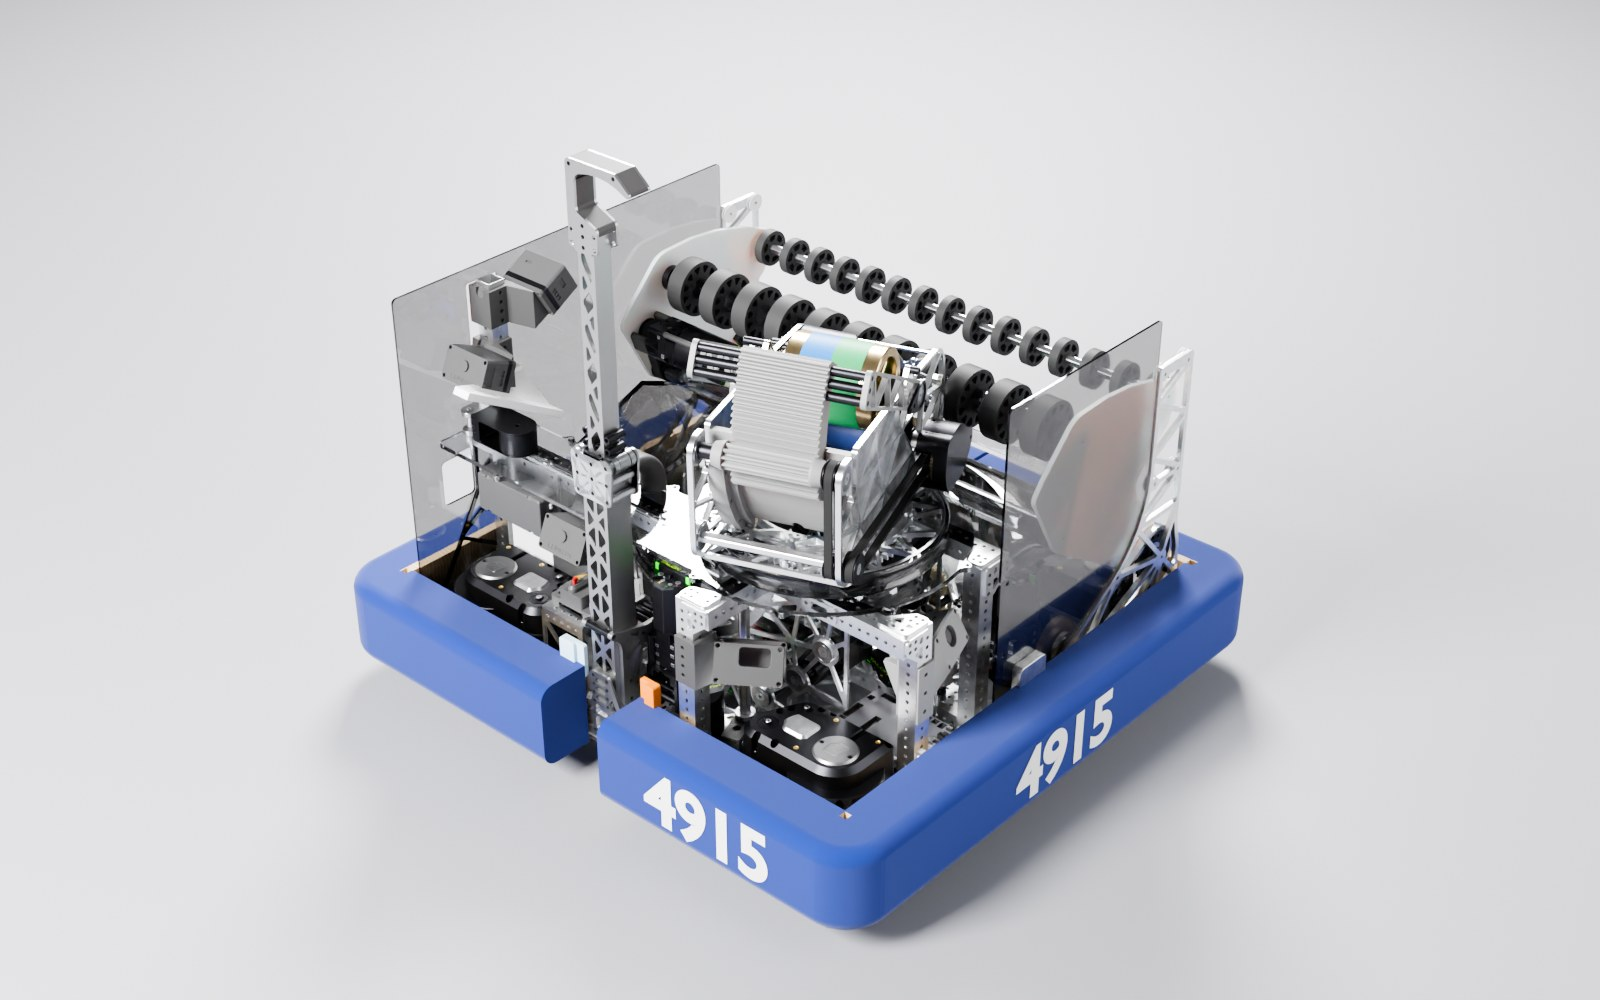
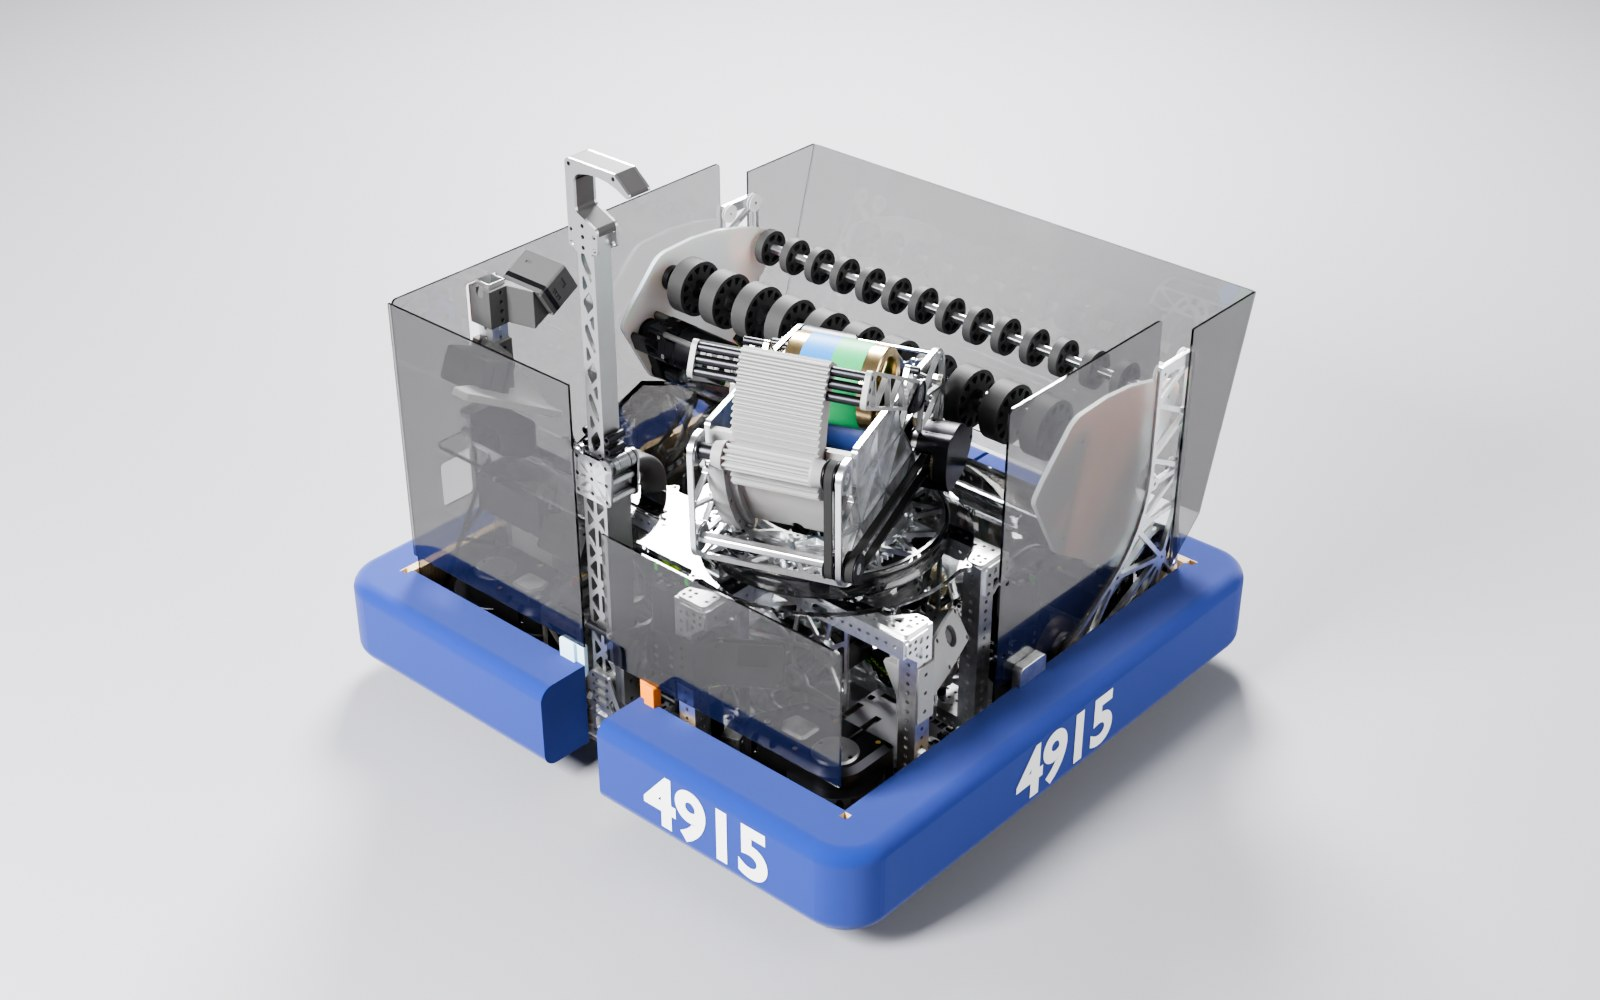
Add best-effort panels missing from the May CAD export
approx_panels.py adds, as 1/8" smoked polycarbonate:
- the intake hopper extension (front wall + two side walls; Parts 34, 32,
  35 in the newer Onshape version), sized from the BOM masses and placed
  from the reveal video and team photo. It is rigged as a sliding
  extension on J_hopper_ext, driven by intake_pivot_deg, with the side
  walls telescoping via a Hook modifier, since swinging the walls with the
  intake arm would pass them through the drivebase and turret.
- back walls (left full height, right below the turret) seen at 0:14.

All approximate parts are in their own collection and can be skipped
with --no-approx. A collision check in stowed, mid and deployed poses
finds no overlaps beyond the front wall meeting the intake side plates.

Claude-Session: https://claude.ai/code/session_014vvMYRo6V5vU6NEvAgyppW

diff --git a/approx_panels.py b/approx_panels.py
@@ -1,0 +1,145 @@
+"""
+approx_panels.py - parts of the real robot that are missing from the May 2026
+CAD export, approximated as flat 1/8" smoked-polycarbonate panels.
+
+Sources (best effort, no CAD geometry available):
+  * Intake hopper extension. On the robot, the deployed intake forms a tall box
+    with a front wall and two side walls. They are Parts 34 (front) and 32/35
+    (sides) of "32 - 2026 Intake V2" in the newer Onshape version. Their sizes
+    come from the BOM masses (1.78 lb and 0.955 lb of polycarbonate at 1/8"
+    gives 0.21 m^2 and 0.11 m^2). Their placement and shape come from the
+    reveal video (0:24, 0:31, 0:44, 0:45) and the team photo.
+    How they retract is not visible anywhere. Swinging them rigidly with the
+    intake arm would put them through the drivebase and the turret, so they
+    are modelled as a sliding extension: the front wall stays upright and
+    slides 24 cm forward as the intake deploys (joint J_hopper_ext, driven
+    by intake_pivot_deg), and the side walls telescope with it (a Hook
+    modifier moves their front edge).
+  * Back walls. Seen in the reveal video at ~0:14: the left half is full height,
+    the right half stops below the turret so the shooter can swing over it,
+    and the climber tube sits in the gap between them.
+
+All panels go in the "Approximate (not in CAD)" collection and carry an
+"approximate" custom property, so they are easy to hide or replace once a
+newer CAD export is available.
+"""
+
+import bmesh
+import bpy
+from mathutils import Matrix, Vector
+
+THICKNESS = 0.003175           # 1/8" polycarbonate
+
+# Hopper extension, robot frame, intake DEPLOYED. Side walls sit just outside
+# the main hopper walls and the front truss towers (|y| <= 0.362).
+EXT_SIDE_Y = 0.3645
+EXT_SIDE_XZ = [(0.30, 0.16), (0.60, 0.215), (0.68, 0.50), (0.30, 0.50)]  # rear-bottom first
+EXT_SIDE_FRONT = (1, 2)        # indices of the outline points on the sliding front edge
+EXT_FRONT_BOTTOM_XZ = (0.60, 0.215)   # just above the front roller
+EXT_FRONT_TOP_XZ = (0.68, 0.50)
+EXT_TRAVEL = 0.24              # front wall slides this far between STOW and deployed
+# Slide fraction vs intake angle: 0 at STOW (130 deg), 1 from 30 deg down to
+# READY (0 deg), so the wall stays ahead of the swinging rollers.
+EXT_FULL_AT_DEG = 30.0
+STOW_DEG = 130.0
+
+# Back walls, robot frame: (y0, y1, z0, z1) on the plane x = BACK_X.
+BACK_X = -0.337                # just behind the frame, inside the bumper
+BACK_LEFT = (0.045, 0.358, 0.178, 0.533)
+BACK_RIGHT = (-0.358, 0.004, 0.178, 0.355)
+
+
+def _slab(name, outline, normal, thickness=THICKNESS):
+    """Closed prism from a planar outline, centred on the outline's plane.
+    Vertex i (top face) and i + len(outline) (bottom face) come from outline[i]."""
+    me = bpy.data.meshes.new(name)
+    bm = bmesh.new()
+    h = Vector(normal).normalized() * (thickness / 2)
+    top = [bm.verts.new(Vector(p) + h) for p in outline]
+    bot = [bm.verts.new(Vector(p) - h) for p in outline]
+    bm.faces.new(top)
+    bm.faces.new(list(reversed(bot)))
+    n = len(outline)
+    for i in range(n):
+        j = (i + 1) % n
+        bm.faces.new([top[i], top[j], bot[j], bot[i]])
+    bmesh.ops.recalc_face_normals(bm, faces=bm.faces)
+    bm.to_mesh(me)
+    bm.free()
+    return me
+
+
+def add(rig, material):
+    """Create the panels and attach them to the rig.
+
+    rig: namespace with root, rig_col, robot_col, rest (dict of joint rest
+    positions), make_empty, add_driver, parent_keep, recenter.
+    Returns (objects, joint_spec).
+    """
+    col = bpy.data.collections.get("Approximate (not in CAD)") or \
+        bpy.data.collections.new("Approximate (not in CAD)")
+    if col.name not in rig.robot_col.children:
+        rig.robot_col.children.link(col)
+
+    def make(name, outline, normal, path, parent):
+        me = _slab(name, outline, normal)
+        me.materials.append(material)
+        o = bpy.data.objects.new(name, me)
+        col.objects.link(o)
+        o["onshape_name"] = name
+        o["onshape_path"] = path
+        o["source"] = "approx_panels.py"
+        o["approximate"] = True
+        rig.recenter(o)
+        bpy.context.view_layer.update()
+        rig.parent_keep(o, parent)
+        return o
+
+    made = []
+    # sliding joint for the hopper extension (rest = STOW, i.e. retracted)
+    (xb, zb), (xt, zt) = EXT_FRONT_BOTTOM_XZ, EXT_FRONT_TOP_XZ
+    rest_pt = Vector((xb - EXT_TRAVEL, 0.0, zb))
+    j = rig.make_empty("J_hopper_ext", rest_pt, rig.root, rig.rig_col, size=0.06,
+                       display="SINGLE_ARROW")
+    j.lock_location = (False, True, True)
+    j.lock_rotation = (True, True, True)
+    span = STOW_DEG - EXT_FULL_AT_DEG
+    rig.add_driver(j, "location", 0, rig.root, "intake_pivot_deg",
+                   f"{rest_pt.x:.6f}+{EXT_TRAVEL}*clamp(({STOW_DEG}-v)/{span},0,1)")
+    j["approximate"] = True
+    shift = Matrix.Translation((-EXT_TRAVEL, 0, 0))   # deployed -> retracted
+
+    # front wall rides on the joint; it sits between the side walls
+    y = EXT_SIDE_Y - THICKNESS
+    front = [shift @ Vector(p) for p in ((xb, -y, zb), (xb, y, zb), (xt, y, zt), (xt, -y, zt))]
+    nrm = Vector((zt - zb, 0, -(xt - xb))).normalized()
+    made.append(make("Intake Hopper Front Wall (approx.)", front, nrm,
+                     "32 - 2026 Intake V2", j))
+
+    # side walls: rear edge fixed to the robot, front edge hooked to the joint
+    for side, sy in (("Left", EXT_SIDE_Y), ("Right", -EXT_SIDE_Y)):
+        pts = []
+        for i, (x, z) in enumerate(EXT_SIDE_XZ):
+            p = Vector((x, sy, z))
+            pts.append(shift @ p if i in EXT_SIDE_FRONT else p)
+        o = make(f"Intake Hopper Side Wall {side} (approx.)", pts, (0, 1, 0),
+                 "32 - 2026 Intake V2", rig.root)
+        n = len(EXT_SIDE_XZ)
+        idx = [i for i in EXT_SIDE_FRONT] + [i + n for i in EXT_SIDE_FRONT]
+        hook = o.modifiers.new("HopperSlide", "HOOK")
+        hook.object = j
+        hook.vertex_indices_set(idx)
+        # zero effect at rest: parentinv = hook_rest^-1 * object
+        hook.matrix_inverse = Matrix.Translation(rig.rest[j.name]).inverted() @ o.matrix_basis
+        made.append(o)
+
+    for side, (y0, y1, z0, z1) in (("Left", BACK_LEFT), ("Right", BACK_RIGHT)):
+        made.append(make(f"Back Wall {side} (approx.)",
+                         [(BACK_X, y0, z0), (BACK_X, y1, z0), (BACK_X, y1, z1), (BACK_X, y0, z1)],
+                         (1, 0, 0), "", rig.root))
+
+    spec = dict(name="hopper_ext", type="prismatic", parent=rig.root.name,
+                origin=list(rest_pt), axis="X", control="intake_pivot_deg",
+                travel=[0.0, EXT_TRAVEL], approximate=True,
+                note=f"x = rest + {EXT_TRAVEL} * clamp(({STOW_DEG} - v) / {span}, 0, 1)")
+    return made, spec

diff --git a/build_artemis.py b/build_artemis.py
@@ -41,6 +41,7 @@ from mathutils import Matrix, Vector
 
 HERE = os.path.dirname(os.path.abspath(__file__))
 sys.path.insert(0, HERE)
+import approx_panels  # noqa: E402  (sibling module)
 import materials  # noqa: E402  (sibling module)
 
 # --------------------------------------------------------------------------
@@ -808,6 +809,8 @@ def parse_args():
     ap.add_argument("--no-studio", action="store_true", help="skip floor, lights, cameras")
     ap.add_argument("--no-demo", action="store_true", help="skip the demo animation")
     ap.add_argument("--report", default=None, help="write a JSON joint/part summary here")
+    ap.add_argument("--no-approx", action="store_true",
+                    help="skip the approximate panels that are missing from the CAD (approx_panels.py)")
     ap.add_argument("--team-number", default="4915",
                     help="bumper numbers to add on all four bumpers ('' for none)")
     return ap.parse_args(argv)
@@ -862,6 +865,16 @@ def main():
     materials.assign_all(parts, root)
     if args.team_number:
         add_bumper_numbers(parts, root, args.team_number)
+    if not args.no_approx and "intake_arm" in joints:
+        from types import SimpleNamespace
+        rig = SimpleNamespace(root=root, rig_col=rig_col, robot_col=robot_col, rest=REST,
+                              make_empty=make_empty, add_driver=add_driver,
+                              parent_keep=parent_keep, recenter=recenter_origin)
+        made, spec = approx_panels.add(rig, materials.make("polycarb_smoked"))
+        specs.append(spec)
+        root.update_tag()
+        bpy.context.view_layer.update()
+        log(f"added {len(made)} approximate panels (intake hopper extension, back walls)")
 
     if not args.no_studio:
         build_studio(link_collection("Studio", scene.collection))

diff --git a/README.md b/README.md
@@ -11,6 +11,7 @@ Every mechanism moves from one set of sliders, in the same units the robot code 
 | `ARTEMIS.blend` | The scene (~44 MB, Git LFS). Open with **Blender 5.2 LTS** or newer. |
 | `build_artemis.py` | Rebuilds `ARTEMIS.blend` from `source/`: import, cleanup, rig, materials, studio, demo animation. |
 | `materials.py` | Procedural material library and the rules that map each part to a material. |
+| `approx_panels.py` | Best-effort panels that the real robot has but the May CAD export lacks: the intake hopper extension and the back walls. See [Approximate parts](#approximate-parts-not-in-the-cad). |
 | `fetch_bom_materials.py` | Downloads each part's Onshape material and appearance from the public share into `source/onshape_bom_materials.json`. No API key is needed. |
 | `render_previews.py` | Renders a still of any pose or animation frame from the command line. |
 | `artemis_joints.json` | Every joint's parent, origin, axis and control property, for simulation or other tools. |
@@ -36,7 +37,7 @@ git lfs pull
 
 | Property | Units / range | Meaning |
 | --- | --- | --- |
-| `intake_pivot_deg` | −2 … 132 ° | Matches `PivotSubsystem`. **130 = STOW** (CAD pose, the default), 60 = SAFE, 0 = READY (deployed). |
+| `intake_pivot_deg` | −2 … 132 ° | Matches `PivotSubsystem`. **130 = STOW** (CAD pose, the default), 60 = SAFE, 0 = READY (deployed). Also slides the approximate hopper extension. |
 | `turret_deg` | −170 … 225 ° | Matches `TurretSubsystem`. Counter-clockwise (CCW) from robot-forward. |
 | `hood_deg` | 0 … 40 ° | Matches `HoodSubsystem`. 0 = down. The hood pivots on the flywheel shaft. |
 | `climber_m` | 0 … 0.28 m | Climber extension. The 0.28 m travel is an estimate; see the notes below. |
@@ -107,6 +108,7 @@ Options:
 | `--no-rollers` | Don't rig spinning rollers. |
 | `--no-studio` | Skip the floor, lights and cameras. |
 | `--no-demo` | Skip the demo animation. |
+| `--no-approx` | Skip the approximate panels in `approx_panels.py`. |
 
 **Re-exporting from Onshape.** The script expects the same layout as the AdvantageScope export:
 
@@ -149,12 +151,26 @@ If the layout changes, edit `COMPONENT_FILES` at the top of `build_artemis.py`.
 ### Known limitations
 
 * **Climber travel.** The 0.28 m travel is estimated from the tube lengths, because the climber code has been removed.
-* **Intake hopper walls.** On the robot, the deployed intake forms a tall box: smoked polycarbonate side walls plus a front wall. The newer Onshape version has them as Parts 32, 34 and 35 of `32 - 2026 Intake V2`. They are **not** in the May export, so the model only shows the intake's low side plates.
+* **Hopper extension and back walls are approximate.** They aren't in the May export, so they were modelled from photos and video; see [Approximate parts](#approximate-parts-not-in-the-cad). The way the hopper extension retracts is a guess.
 * **Not in the CAD at all.** The sponsor and ARTEMIS decals, wiring and cable sleeves.
 * **Guessed materials.** Team-made parts with no material set in Onshape are guessed from their CAD colour. For example, white CAD parts became white HDPE or white prints.
 * **Mechanism motion.** All roller ratios are 1. Belts and chains don't animate.
 * **Triangle count.** The scene has 2.5 M triangles, which is fine for stills and animation. For real-time use or physics, decimate the meshes or build simple collision shapes.
 * **Newer CAD versions.** The model is the May 2026 export. The newer public Onshape share (version `d5fdcfd9…`) adds at least the intake hopper walls. To use it, export the same five files and rebuild.
+
+## Approximate parts (not in the CAD)
+
+The real robot has panels that the May 2026 CAD export doesn't. Without CAD geometry or a newer export, `approx_panels.py` adds them as flat 1/8" smoked-polycarbonate panels. They are sized from the Onshape parts list and placed from the reveal video and the team photo. They live in the `ARTEMIS › Approximate (not in CAD)` collection, so you can hide them or skip them with `--no-approx`.
+
+* **Intake hopper extension:** a front wall and two side walls. These are Parts 34, 32 and 35 in the newer Onshape version. The parts list gives their weights: 1.78 lb for the front wall and 0.955 lb for each side wall, which works out to about 0.21 m² and 0.11 m² at 1/8". The deployed shape matches the video at 0:24 and 0:44.
+* **How the extension retracts is a guess.** No photo shows it. The walls can't swing rigidly with the intake arm, because they would pass through the drivebase and the turret. So the model treats them as a sliding extension:
+  * The front wall stays upright and slides 24 cm forward on `J_hopper_ext`. It is driven by `intake_pivot_deg` and reaches full extension by 30°, which keeps it ahead of the swinging rollers.
+  * The side walls telescope: a Hook modifier moves their front edge.
+
+  A collision check in the stowed, mid-travel and deployed poses, with the turret and hood at several angles, found no overlaps. The only contact is where the deployed front wall meets the intake's side plates.
+* **Back walls:** seen at 0:14 in the reveal video. The left half is full height. The right half stops at 0.355 m so the shooter can swing over it. The climber tube sits in the gap between them.
+
+When a newer CAD export is available, delete `approx_panels.py` from the build (or use `--no-approx`) and rebuild.
 
 ## Simulation
 
